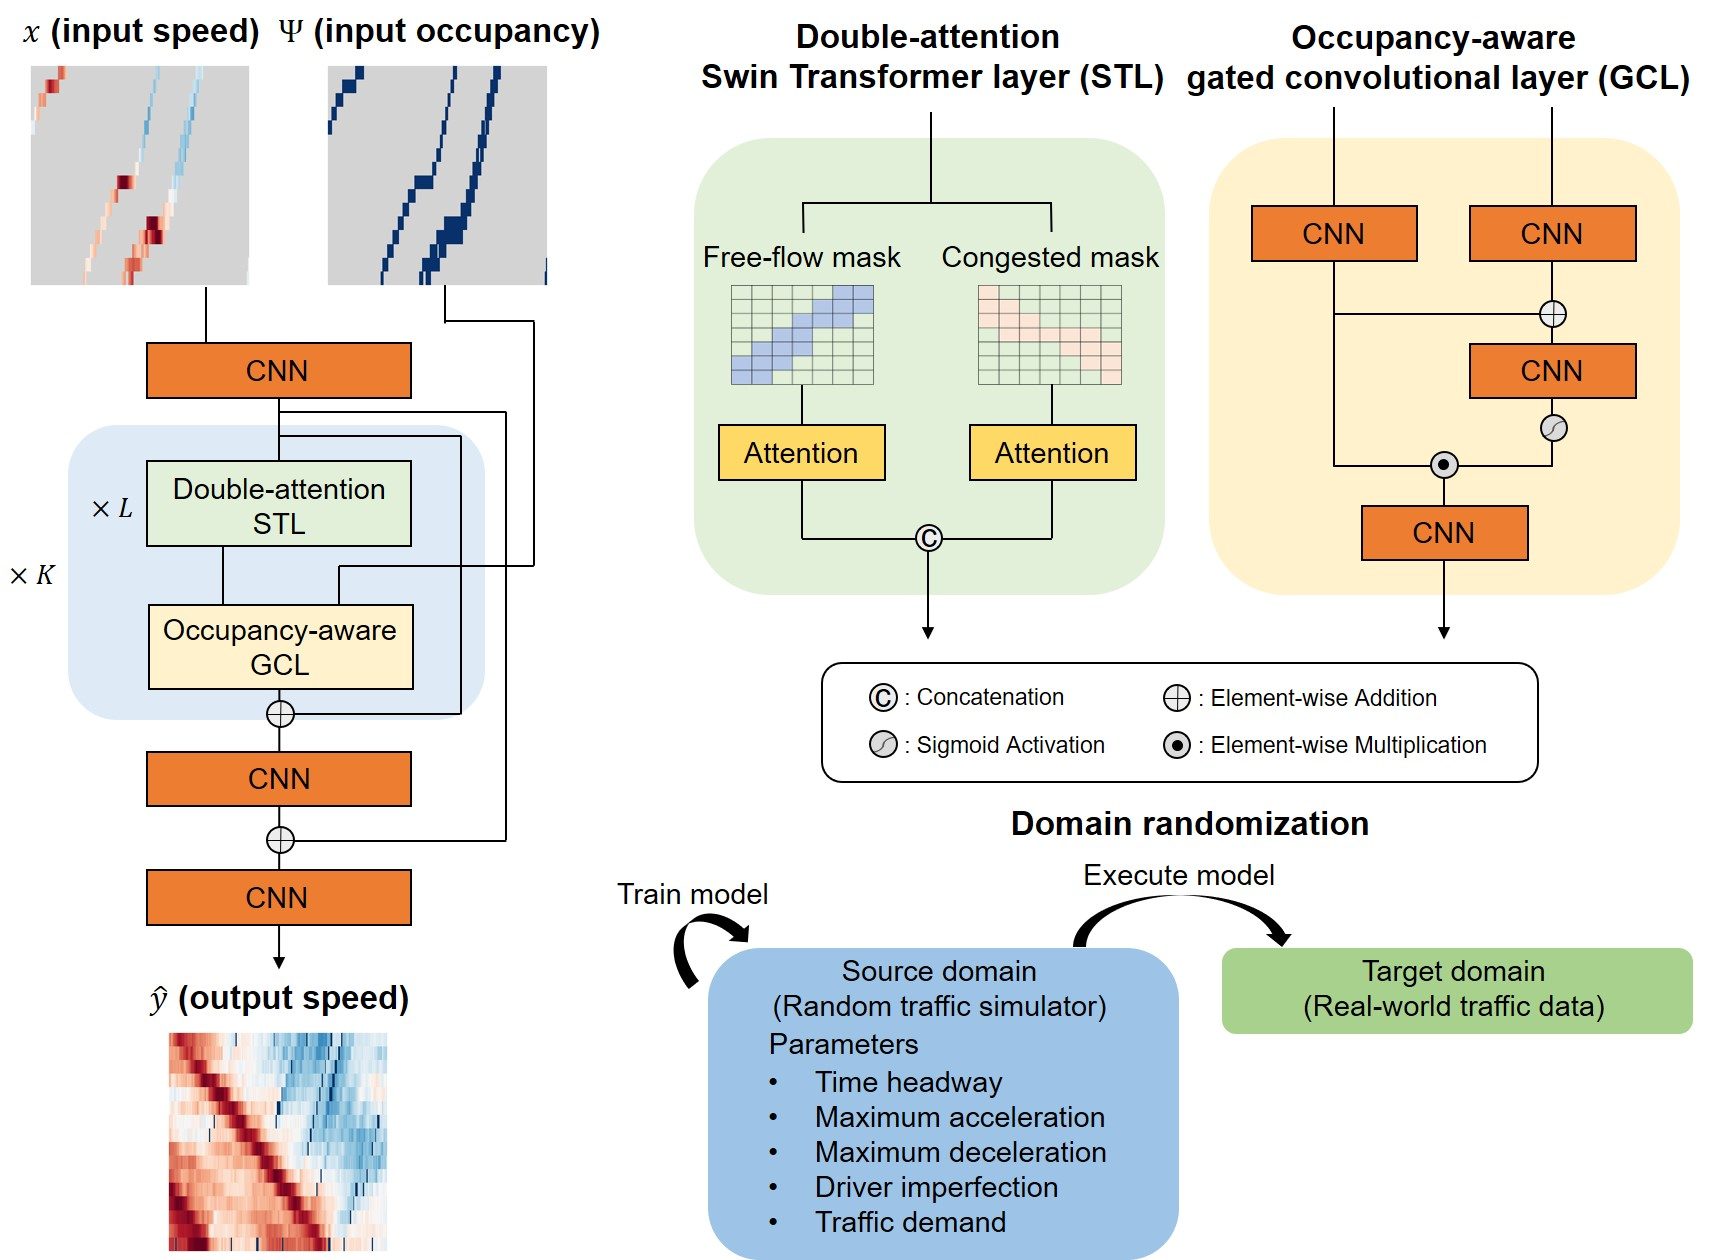
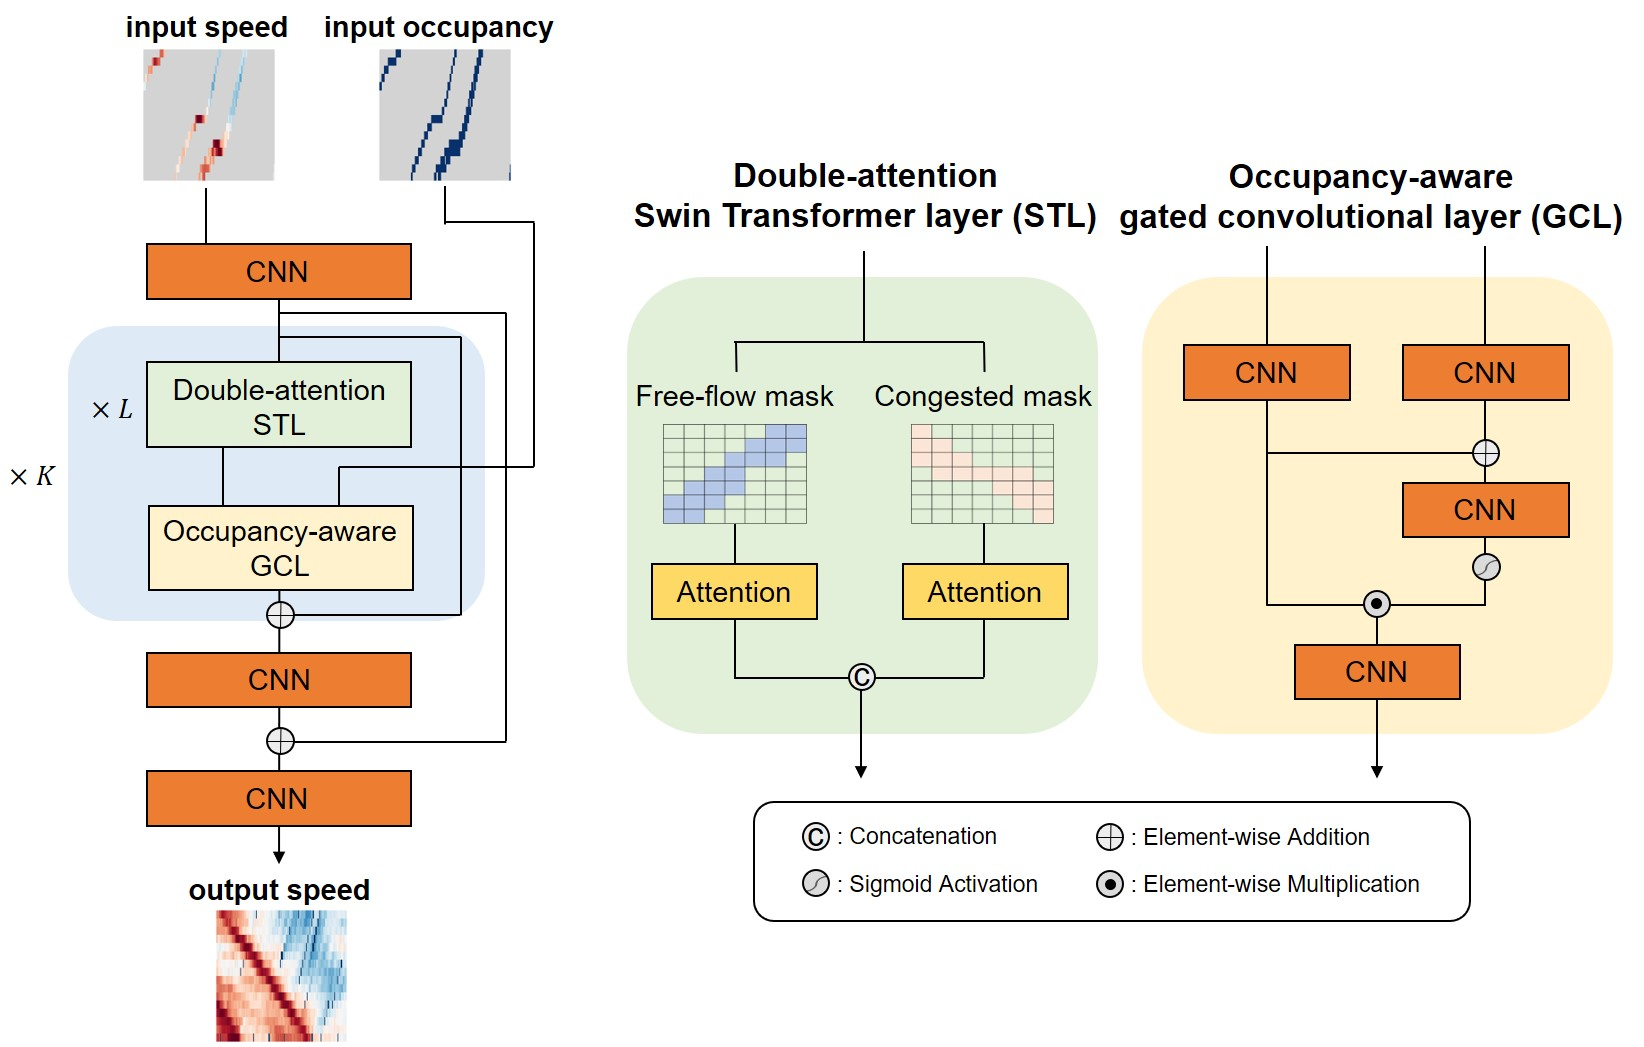
change figure

diff --git a/README.md b/README.md
@@ -2,7 +2,7 @@
 
 [![Python](https://img.shields.io/badge/python-3.8%2B-blue)](https://www.python.org/) [![License: MIT](https://img.shields.io/badge/License-MIT-yellow.svg)](https://github.com/cho-96/SwinTSE/blob/main/LICENSE) [![Development Status](https://img.shields.io/badge/development-active-brightgreen)](https://github.com/cho-96/DA-SwinTSE)
 
-**DA-SwinTSE** is a novel Traffic State Estimation (TSE) framework specifically engineered for unmonitored highway segments. Built upon a double-attention Swin Transformer and occupancy-aware gated convolutional layers, the model effectively captures long-range spatiotemporal dependencies while eliminating border artifacts. The double-attention mechanism meticulously constrains the attention mask to free-flow and congested propagation zones, strictly adhering to kinematic wave theory. To handle data sparsity, gated convolutional layers dynamically filter invalid or unobserved pixels in sensor-undetected regions, while the occupancy-aware architecture explicitly models sensor-occupied cells to accommodate dynamic probe vehicle measurements. By being trained exclusively on simulated data via domain randomization, DA-SwinTSE learns fundamental traffic dynamics, significantly enhancing its sim-to-real generalization capabilities.
+**DA-SwinTSE** is a novel Traffic State Estimation (TSE) framework specifically engineered for unmonitored highway segments. Built upon a double-attention Swin Transformer and occupancy-aware gated convolutional layers, the model effectively captures long-range spatiotemporal dependencies while eliminating border artifacts. The double-attention mechanism meticulously constrains the attention mask to free-flow and congested propagation zones, strictly adhering to kinematic wave theory. To handle data sparsity, gated convolutional layers dynamically filter invalid or unobserved pixels in sensor-undetected regions, while the occupancy-aware architecture explicitly models sensor-occupied cells to accommodate dynamic probe vehicle measurements. By being trained exclusively on simulated data, DA-SwinTSE learns fundamental traffic dynamics, significantly enhancing its sim-to-real generalization capabilities.
 
 ![DA-SwinTSE architecture](figs/DASwinTSE.jpg)
 
@@ -87,9 +87,9 @@ If you use **DA-SwinTSE** in your research, software, or to generate datasets, p
       author = {Haechan, Cho},
       license = {MIT},
       month = december,
-      title = { A double-attention Swin Transformer with occupancy-aware gated convolution and domain randomization for highway traffic state estimation },
+      title = { A double-attention Swin Transformer with occupancy-aware gated convolution for highway traffic state stimation },
       url = {https://github.com/cho-96/DA-SwinTSE},
-      year = {2025}
+      year = {2026}
     }
     ```
 
